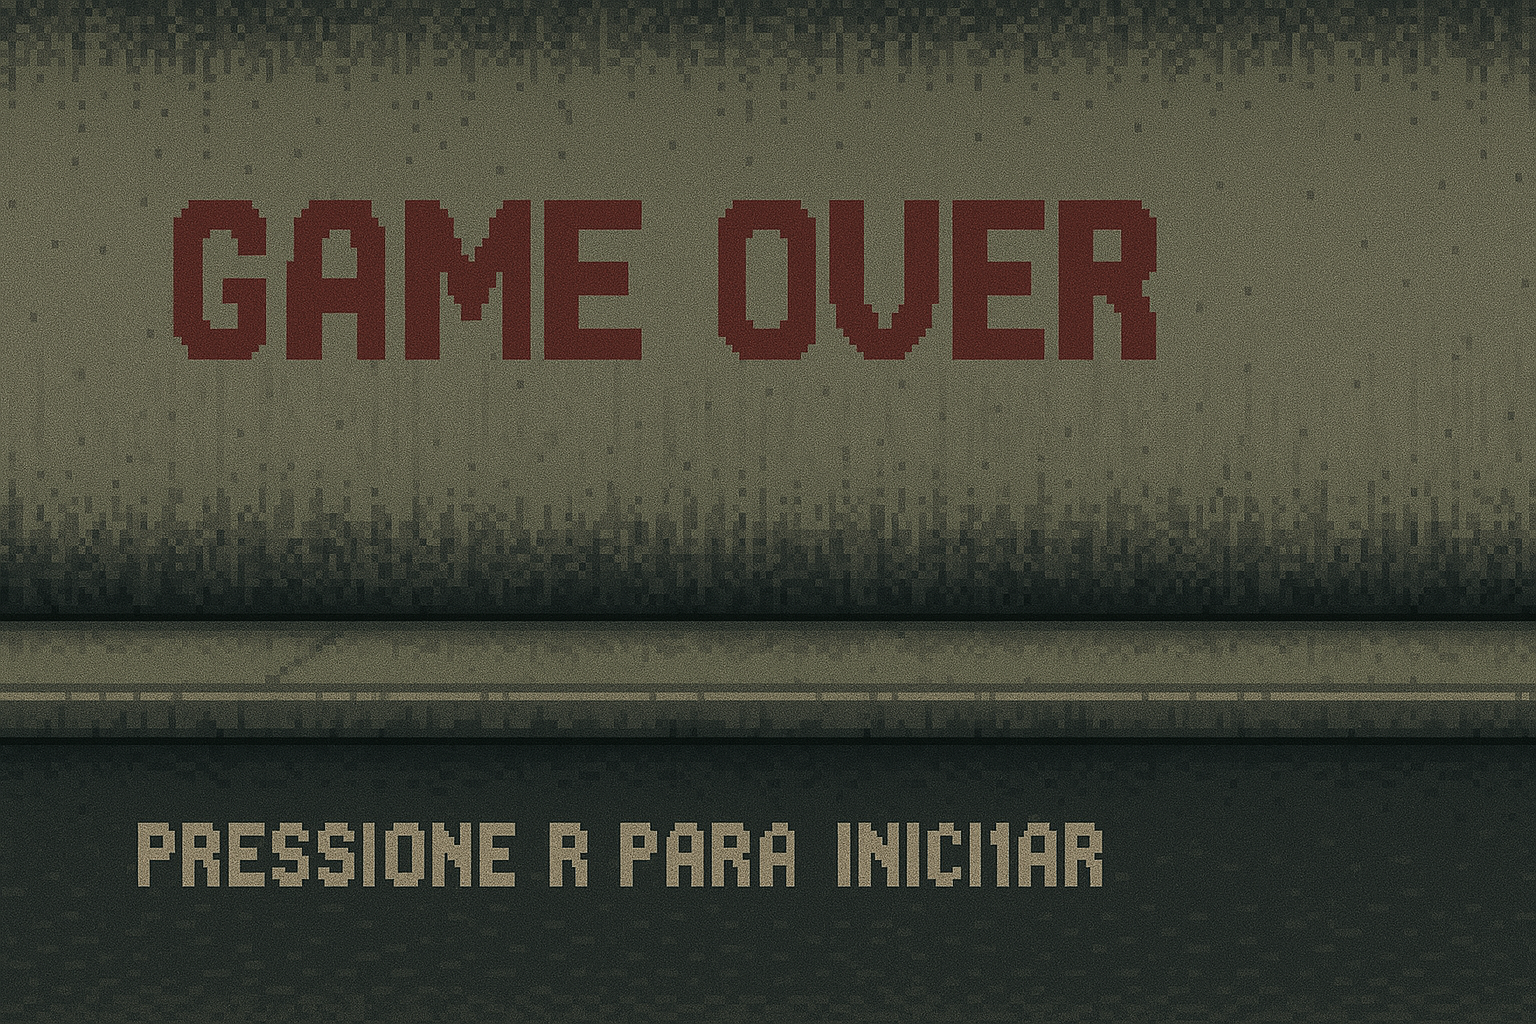
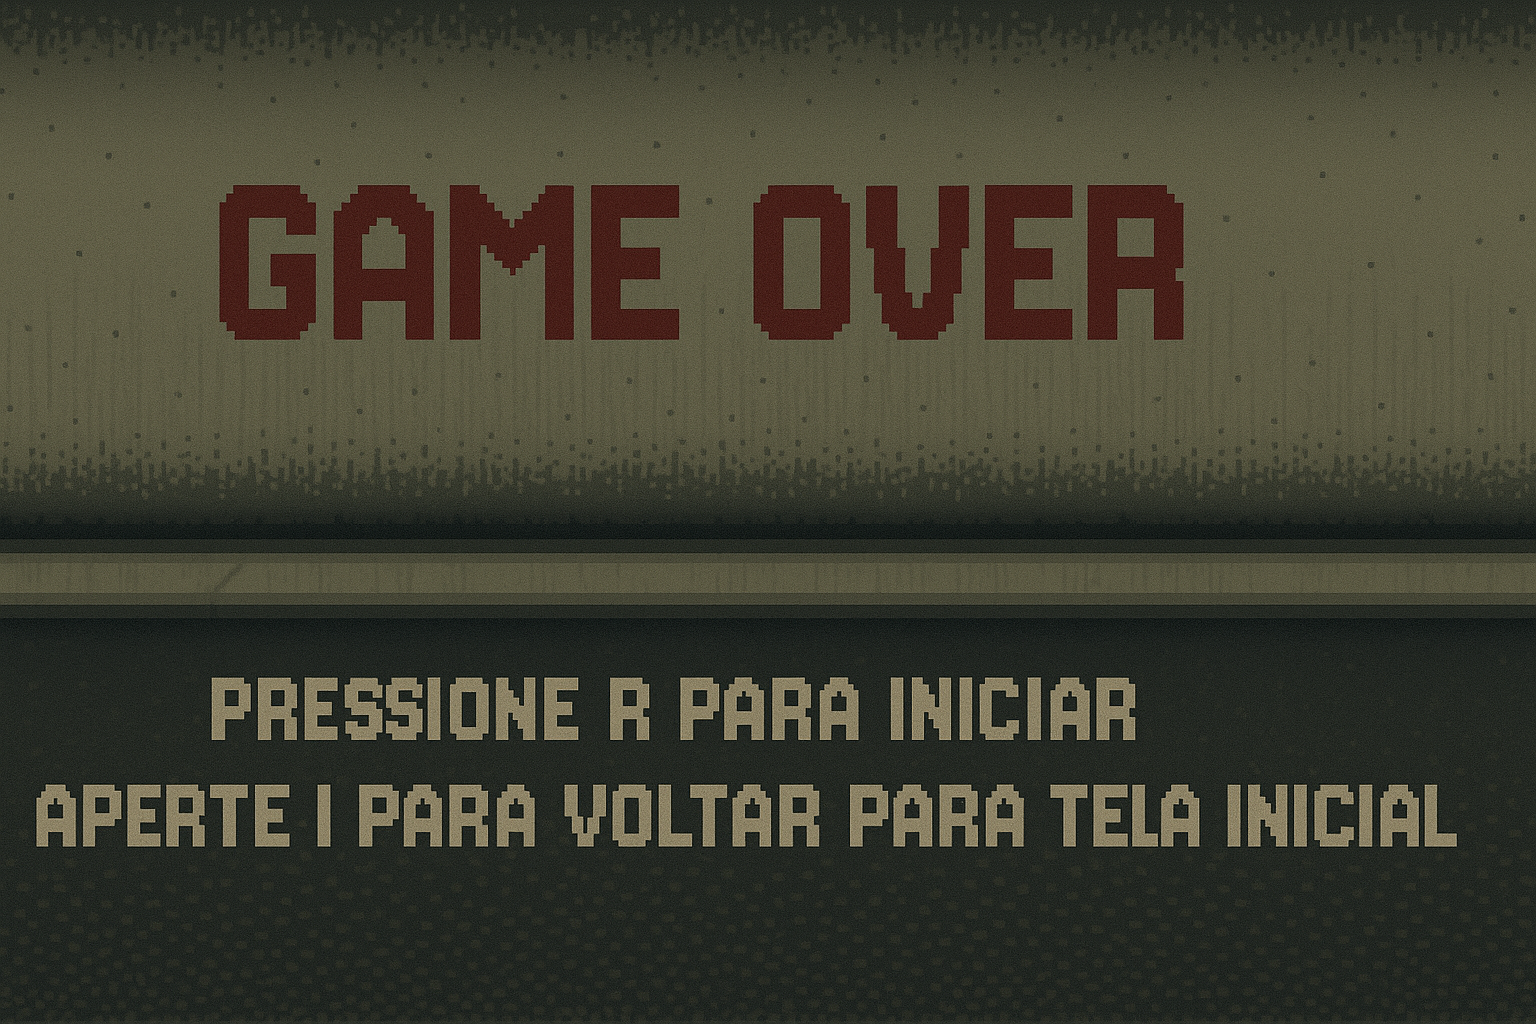
Opcao de retornar ao menu ao morrer
Nader Taha Murilo Godoy <naderat@al.insper.edu.br murilogz@al.insper.edu.br>

diff --git a/telas/tela_gameover.py b/telas/tela_gameover.py
@@ -1,6 +1,5 @@
 import pygame
 from .tela import Tela
-from .tela_jogo import TelaJogo
 
 class TelaGameOver(Tela):
     def __init__(self, jogo, tela):
@@ -16,6 +15,9 @@ class TelaGameOver(Tela):
             if evento.type == pygame.KEYDOWN and evento.key == pygame.K_r:
                 from telas import TelaJogo
                 self.jogo.trocar_tela(TelaJogo(self.jogo, self.jogo.tela_atual.tela.copy()))
+            if evento.type == pygame.KEYDOWN and evento.key == pygame.K_i:
+                from telas import TelaInicial
+                self.jogo.trocar_tela(TelaInicial(self.jogo, self.jogo.tela_atual.tela.copy()))
 
 
     def desenha(self, janela):

diff --git a/telas/tela_inicial.py b/telas/tela_inicial.py
@@ -5,6 +5,8 @@ from .tela_instrucoes import TelaInstrucoes
 
 class TelaInicial(Tela):
     def __init__(self, jogo, tela):
+        pygame.mixer.init()
+        pygame.mouse.set_visible(True)
         self.jogo = jogo
         self.tela = tela
         self.fonte = pygame.font.Font("assets/font/PressStart2P.ttf", 30)
